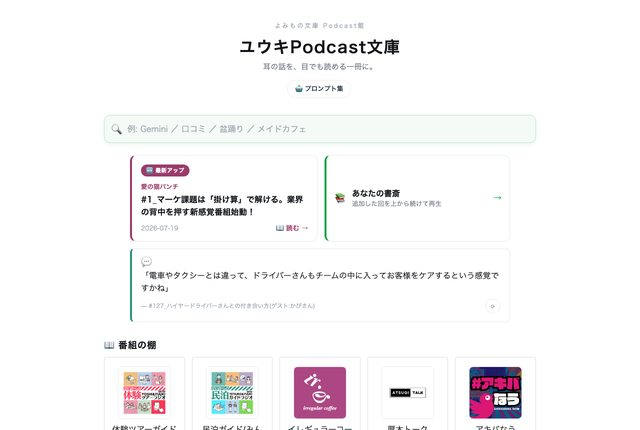
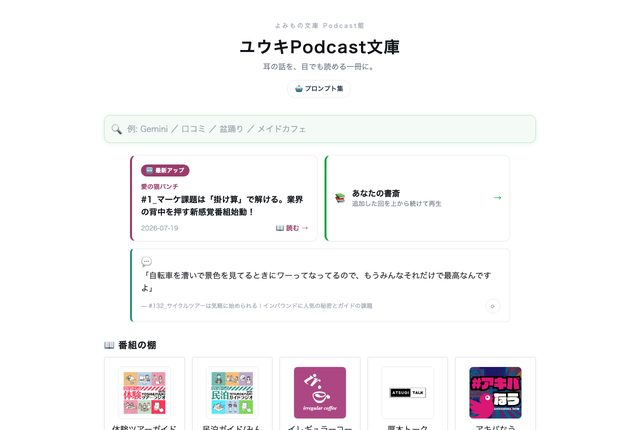
隠しURL・管理画面URLを公開LPから外す（文庫は公開トップへ/読み物棚は非公開表示/いつなら？は公開版へ）

Changed region(s): [[0.2188, 0.6349, 0.7812, 0.6953], [0.375, 0.6953, 0.5938, 0.7256], [0.2812, 0.6953, 0.3438, 0.7256]]

diff --git a/boxes.js b/boxes.js
@@ -36,7 +36,7 @@ const BOXES = [
     {name:"ラジオ128回からおすすめ回診断",url:"https://taiken.yuukipodcast.com",note:null},
   ]},
   {box:"日程調整を|一言で終わらせる",en:"Settle a date with one question",desc:"空き時間から候補を出して発行。相手はタップするだけ",cat:"仕事",badge:"paid",examples:[
-    {name:"飲み会・打ち合わせ・収録の3プリセット",url:"https://yukitchy.github.io/itsunara/admin.html",note:null},
+    {name:"飲み会・打ち合わせ・収録の3プリセット",url:"https://yukitchy.github.io/itsunara/",note:null},
   ]},
   {box:"やる気の出ないタスクを|クエストにする",en:"Turn chores into quests",desc:"やることをクエスト受注書に変える掲示板",cat:"暮らし",badge:"paid",examples:[
     {name:"モンハン風クエスト掲示板",url:"https://yukitchy.github.io/quest-board/",note:null},
@@ -57,8 +57,8 @@ const BOXES = [
     {name:"ユウキの7番組",url:"https://program.yuukipodcast.com",note:null},
   ]},
   {box:"音声を読み物にして|後から読む",en:"Turn audio into readable pages",desc:"音声や字幕をハイライト付きの読み物に製本",cat:"Podcast",badge:"paid",examples:[
-    {name:"Podcast文庫（9番組532話）",url:"https://bunko.animesenseijp.com/be6f59d7c068/",note:null},
-    {name:"会議字幕の読み物棚",url:"https://bot.animesenseijp.com/yomimono/dana-bf662accc590/",note:null},
+    {name:"Podcast文庫（9番組532話）",url:"https://bunko.yuukipodcast.com/",note:null},
+    {name:"会議字幕の読み物棚",url:null,note:null},
   ]},
   {box:"録音から|議事録と引き継ぎ書を作る",en:"Minutes and handover docs from a recording",desc:"録音1本→まとめ→読み物。辞書と話者と立場を差し替える",cat:"仕事",badge:"paid",isKit:true,first:true,flow:{title:"ユウキの実例: 地元ラジオの収録60分 → 読み物まで",steps:[
     {t:"録音をドロップして話者を登録",d:"バーミヤンで録った60分のm4aを受付に放り込み、話者3人の名前と立場を入れて「受け付ける」。あとは待つだけ。",img:"art/flow/step1.jpg"},
